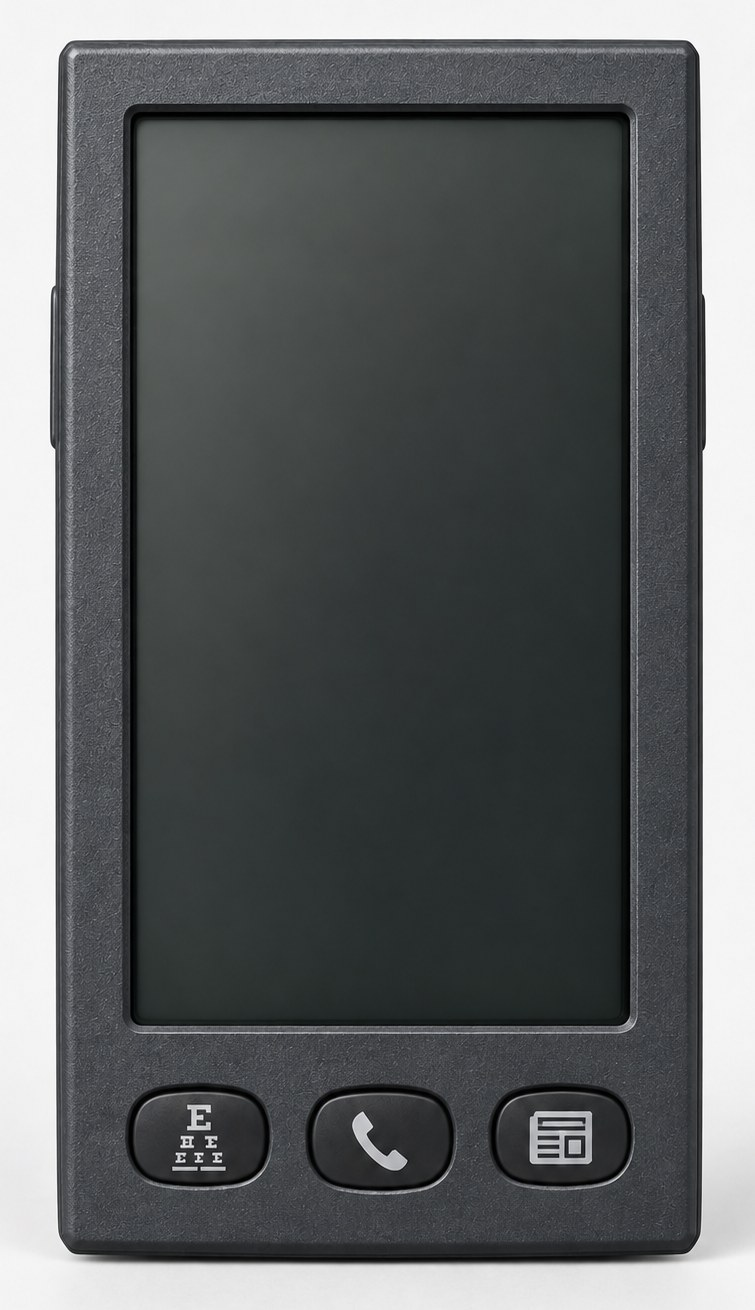
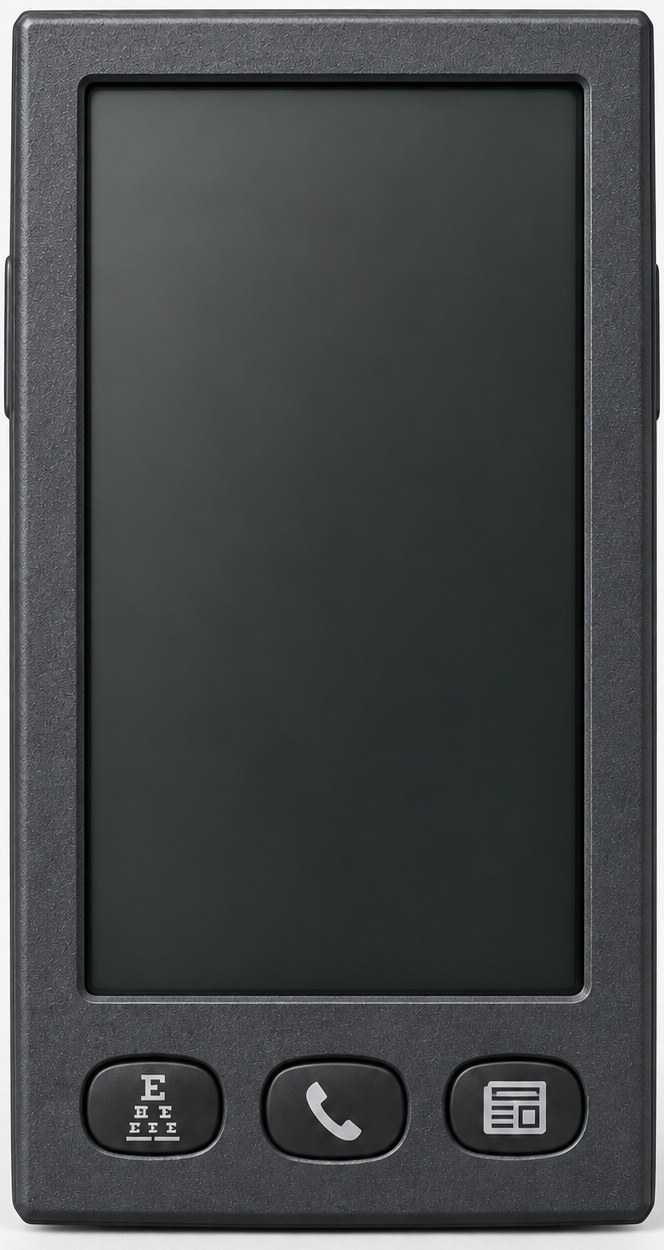
Phone: handheld fills the screen width
Crops the photo to the device edges (664x1250, scene 332x625) so it
spans the full width of a phone instead of sitting inside a margin.
Screen and button coordinates updated to match.

diff --git a/vsl-retro/css/style.css b/vsl-retro/css/style.css
@@ -159,13 +159,14 @@ a.sysbtn { font-size: 10px; }
   font-family: var(--font-ui); font-size: 13px; letter-spacing: .03em; color: #b2ffff; pointer-events: none; }
 
 /* ---------- phones: the handheld ----------
-   A 378×655 scene (the photo is 755×1310, shown at half size for crispness) scaled to
-   the viewport by fit(). The screen is 250×457 at (63,54); inside it the desktop chrome
+   A 332×625 scene (the photo is 664×1250, shown at half size for crispness) scaled to
+   the viewport by fit(), so the device spans the full width of a phone. The screen is
+   250×457 at (40,38); inside it the desktop chrome
    is reused at its normal sizes, stacked vertically and scrolling. */
 .palm-wrap { display: none; position: fixed; inset: 0; overflow: hidden; background: #f3f3f4; }
-.palm { position: absolute; left: 50%; top: 50%; width: 378px; height: 655px; margin: -328px 0 0 -189px; transform-origin: center center; }
-.palm-photo { position: absolute; inset: 0; width: 378px; height: 655px; display: block; }
-.palm-screen { position: absolute; left: 63px; top: 54px; width: 250px; height: 457px; border-radius: 5px; overflow: hidden;
+.palm { position: absolute; left: 50%; top: 50%; width: 332px; height: 625px; margin: -313px 0 0 -166px; transform-origin: center center; }
+.palm-photo { position: absolute; inset: 0; width: 332px; height: 625px; display: block; }
+.palm-screen { position: absolute; left: 40px; top: 38px; width: 250px; height: 457px; border-radius: 5px; overflow: hidden;
   display: flex; flex-direction: column; gap: 4px; padding: 5px; background: var(--teal); color: #000; font-family: var(--font-ui);
   box-shadow: inset 0 0 0 1px rgba(0,0,0,.4), inset 0 2px 6px rgba(0,0,0,.35); }
 .palm-progman { flex: 1; min-height: 0; display: flex; flex-direction: column; }

diff --git a/vsl-retro/index.html b/vsl-retro/index.html
@@ -211,9 +211,9 @@
       <div class="palm-status"><span>13 PROGRAMS LOADED · 640K OK</span><span id="palm-clock"></span></div>
     </div>
     <!-- the three hardware buttons: eye chart, phone, newspaper -->
-    <a class="palm-btn" style="left:70px;top:544px" href="https://calgaryvisioncentre.com/book-an-appointment" aria-label="Book an appointment"></a>
-    <a class="palm-btn" style="left:161px;top:544px" href="tel:+14032370505" aria-label="Phone the clinic, 403-237-0505"></a>
-    <a class="palm-btn" style="left:245px;top:544px" href="https://calgaryvisioncentre.com/blog" aria-label="CVC Journal — read the blog"></a>
+    <a class="palm-btn" style="left:47px;top:529px" href="https://calgaryvisioncentre.com/book-an-appointment" aria-label="Book an appointment"></a>
+    <a class="palm-btn" style="left:138px;top:529px" href="tel:+14032370505" aria-label="Phone the clinic, 403-237-0505"></a>
+    <a class="palm-btn" style="left:222px;top:529px" href="https://calgaryvisioncentre.com/blog" aria-label="CVC Journal — read the blog"></a>
   </div>
 </div>
 

diff --git a/vsl-retro/js/app.js b/vsl-retro/js/app.js
@@ -57,7 +57,7 @@
   function fit() {
     stageScale = Math.min(innerWidth / 1280, innerHeight / 720);
     stage.style.transform = `scale(${stageScale})`;
-    palm.style.transform = `scale(${Math.min(innerWidth / 378, innerHeight / 655)})`;     // phone: the handheld
+    palm.style.transform = `scale(${Math.min(innerWidth / 332, innerHeight / 625)})`;     // phone: the handheld
   }
   addEventListener('resize', fit);
   fit();

diff --git a/vsl-retro/README.md b/vsl-retro/README.md
@@ -29,7 +29,7 @@ assets/monitor.png          the photo with the tube blanked to #008080 (1672×94
 assets/monitor-original.png the photo as supplied (DOS text still on screen)
 assets/barrel.png           602×495 displacement map (R = x, G = y, radial r³) for the barrel filter
 assets/cvc-logo.png         the CVC mark, white on transparent, used by the screensaver
-assets/palm.jpg             755×1310 handheld photo for phones (shown at half size)
+assets/palm.jpg             664×1250 handheld photo for phones (shown at half size)
 design-canvas-sources/      the Claude Design artboards this was built from (.dc.html) — reference only
 ```
 
@@ -67,9 +67,9 @@ design-canvas-sources/      the Claude Design artboards this was built from (.dc
 The screensaver sits above the glass overlay layers (a sibling of `.tube` inside `.screen`)
 so the whole tube goes black; it is a 602×495 canvas driven by `svFrame()` in app.js.
 
-Under 700 px wide the CRT is replaced by a handheld (`.palm-wrap`): a 378×655 scene
-scaled to the viewport, with the same Vision Lab Manager chrome on its 250×457 screen
-(`left:63 top:54`), stacked for portrait and scrolling: the four group windows, then
+Under 700 px wide the CRT is replaced by a handheld (`.palm-wrap`): a 332×625 scene
+scaled to fill the viewport width, with the same Vision Lab Manager chrome on its 250×457
+screen (`left:40 top:38`), stacked for portrait and scrolling: the four group windows, then
 README.TXT, with the status line and clock underneath. Tapping an icon opens the tool's
 real page. The three hardware buttons are hotspots: Book an appointment, phone the
 clinic, CVC Journal. Screen readers get it as a plain `nav` of links.

diff --git a/vsl-retro/CLAUDE.md b/vsl-retro/CLAUDE.md
@@ -14,5 +14,5 @@ Read README.md first; it explains the stage, the tube geometry and the effect la
 ## Testing
 - Serve the folder, open in Chrome, and check: click an icon → tool opens in an iframe window; right-click → Properties; drag/resize/min/max/close on every window; Window → Cascade/Tile/Arrange/Reopen; power button off → on boot sequence; Help → Degauss / screensaver / scanlines; Alt-F/W/H; typing `20/20` and `dgs`.
 - Check Safari for the barrel filter (`#barrel`); if it breaks, guard with `@supports` or a UA check and set `filter:none` on `.tube`.
-- Resize under 700 px: the handheld must appear with all 13 icons; its screen is `left:63 top:54 250×457` in a 378×655 scene — do not move it.
+- Resize under 700 px: the handheld must appear with all 13 icons; its screen is `left:40 top:38 250×457` in a 332×625 scene — do not move it.
 - `design-canvas-sources/` is reference only — the `.dc.html` files need the Claude Design runtime and will not run here.
